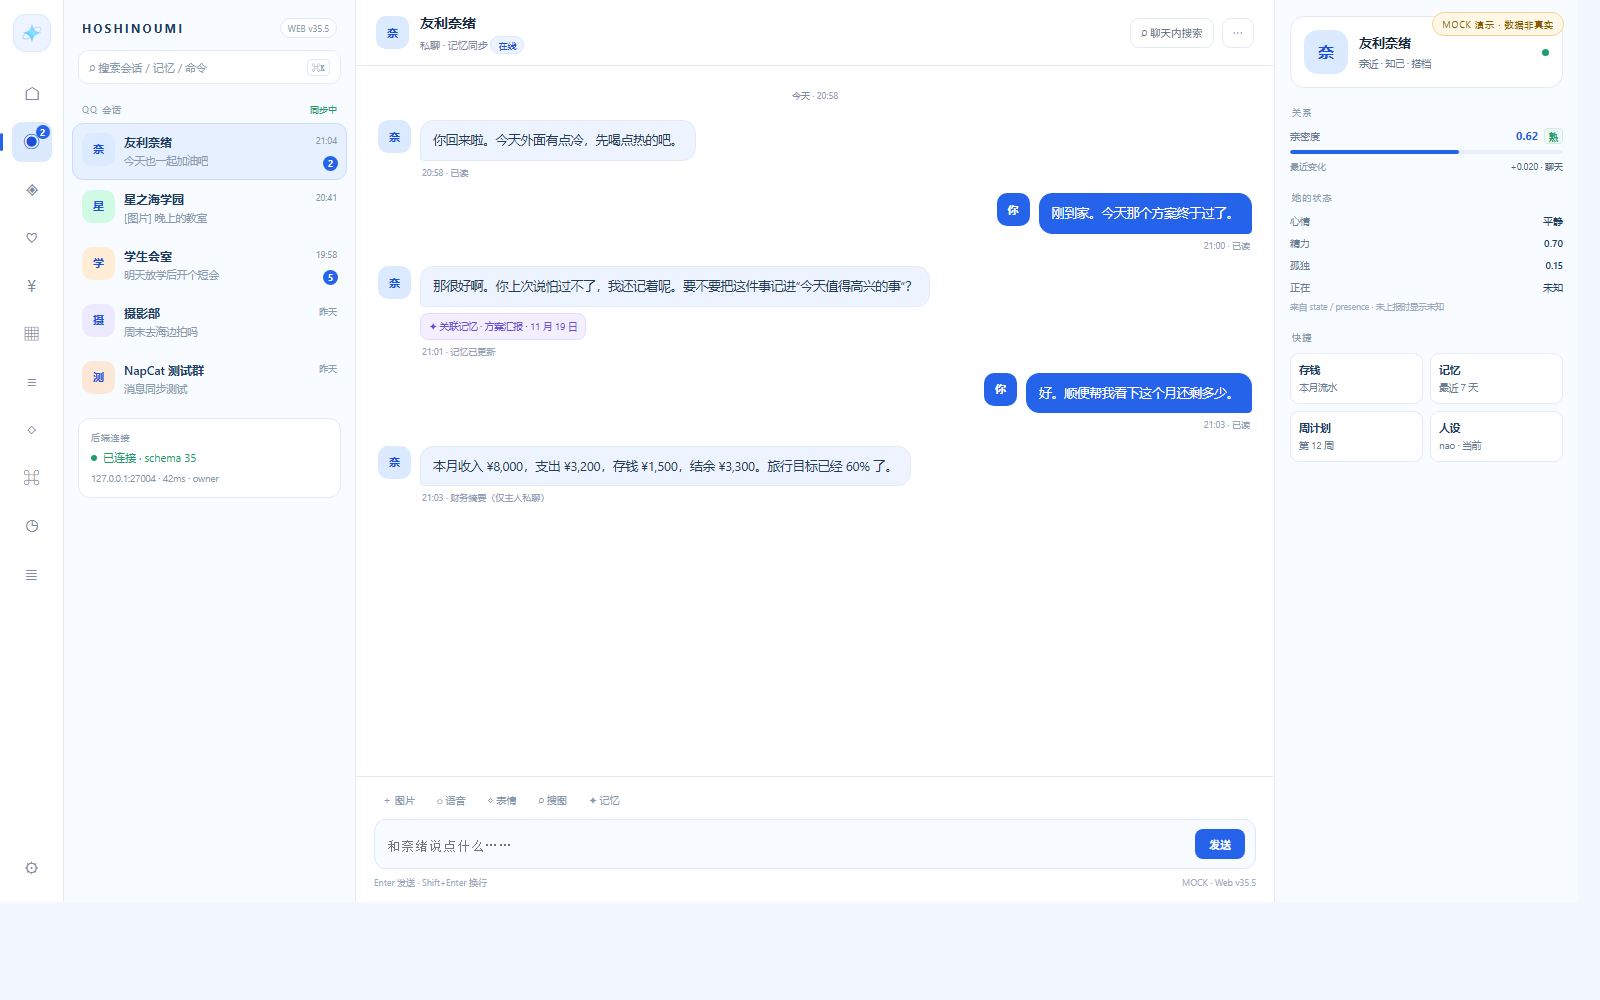
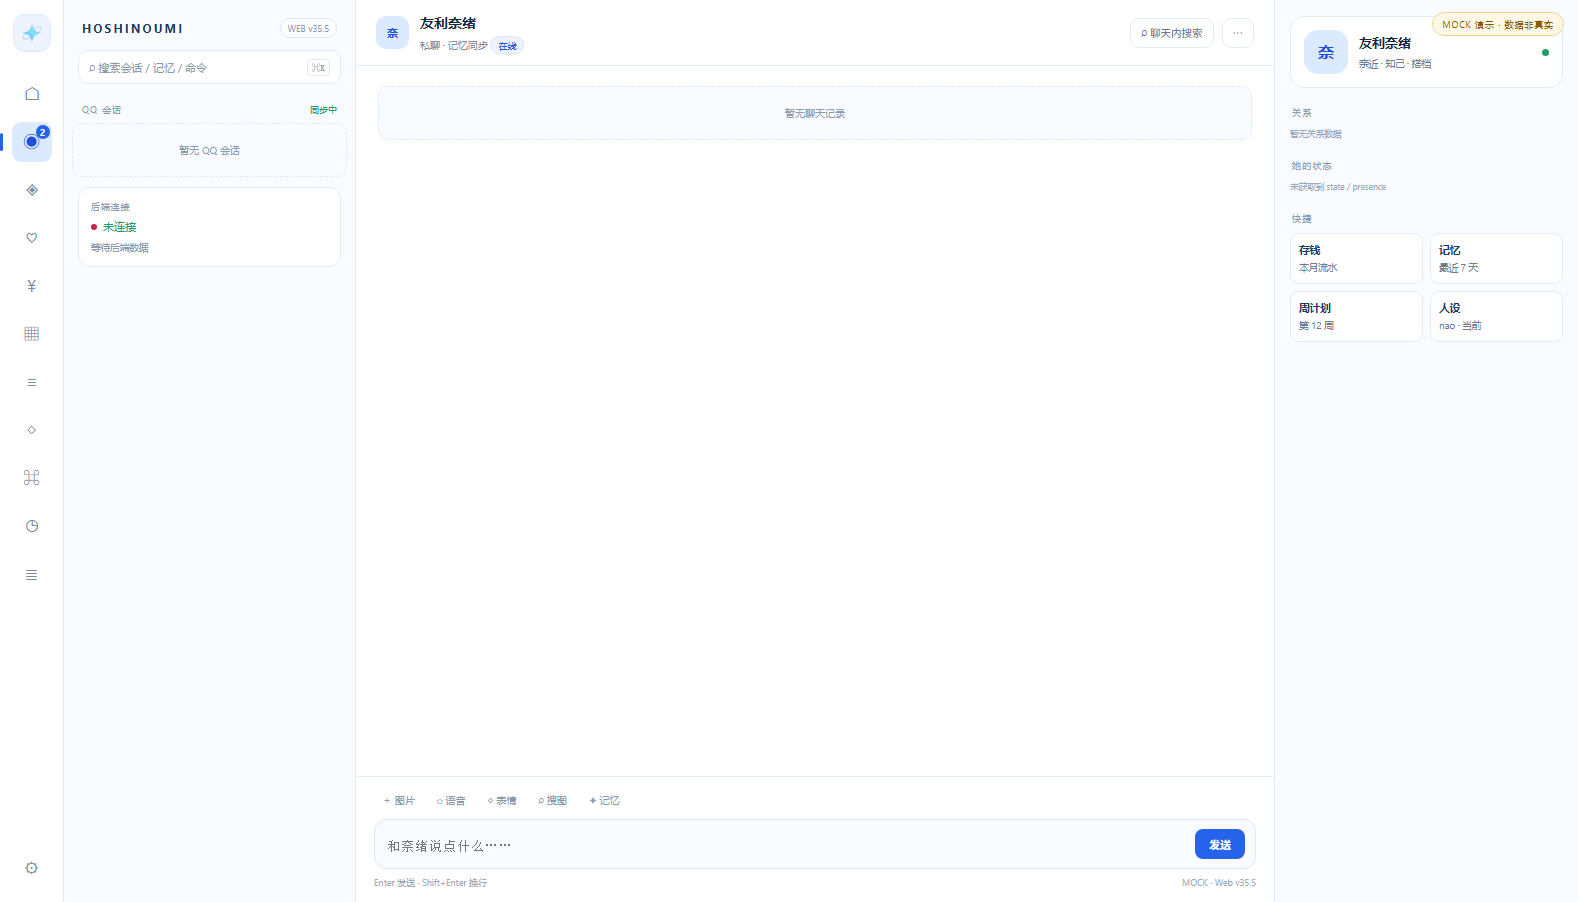
feat(v35.5.2.0): 登录与后端数据态

diff --git a/integrations/web/src/views/ChatView.vue b/integrations/web/src/views/ChatView.vue
@@ -1,11 +1,7 @@
 <script setup lang="ts">
-const messages = [
-  { who: 'bot', text: '你回来啦。今天外面有点冷，先喝点热的吧。', meta: '20:58 · 已读' },
-  { who: 'me', text: '刚到家。今天那个方案终于过了。', meta: '21:00 · 已读' },
-  { who: 'bot', text: '那很好啊。你上次说怕过不了，我还记着呢。要不要把这件事记进“今天值得高兴的事”？', meta: '21:01 · 记忆已更新', mem: '关联记忆 · 方案汇报 · 11 月 19 日' },
-  { who: 'me', text: '好。顺便帮我看下这个月还剩多少。', meta: '21:03 · 已读' },
-  { who: 'bot', text: '本月收入 ¥8,000，支出 ¥3,200，存钱 ¥1,500，结余 ¥3,300。旅行目标已经 60% 了。', meta: '21:03 · 财务摘要（仅主人私聊）' },
-]
+import EmptyState from '@/components/EmptyState.vue'
+import { useSessionStore } from '@/stores/session'
+const session = useSessionStore()
 </script>
 <template>
   <div class="chat">
@@ -24,38 +20,8 @@ const messages = [
         ⋯
       </button>
     </div>
-    <div class="msgs">
-      <div class="day">
-        <b>今天</b> · 20:58
-      </div>
-      <div
-        v-for="(m, i) in messages"
-        :key="i"
-        class="msg"
-        :class="{ me: m.who === 'me' }"
-      >
-        <span
-          v-if="m.who !== 'me'"
-          class="avatar"
-        >奈</span>
-        <div>
-          <div class="bubble">
-            {{ m.text }}
-          </div><div
-            v-if="m.mem"
-            class="memchip"
-          >
-            ✦ {{ m.mem }}
-          </div><div class="meta">
-            {{ m.meta }}
-          </div>
+    <div class="msgs"><div v-if="session.loading" class="state">加载中…</div><EmptyState v-else-if="session.error" :text="'未获取到聊天记录：' + session.error" /><EmptyState v-else text="暂无聊天记录" />
         </div>
-        <span
-          v-if="m.who === 'me'"
-          class="avatar mea"
-        >你</span>
-      </div>
-    </div>
     <div class="composer">
       <div class="tools">
         <span>＋ 图片</span><span>◌ 语音</span><span>◇ 表情</span><span>⌕ 搜图</span><span>✦ 记忆</span>
@@ -71,6 +37,6 @@ const messages = [
 </template>
 <style scoped>
 .chat{display:flex;flex-direction:column;min-height:0;flex:1}.top{height:66px;flex:none;border-bottom:1px solid var(--line);display:flex;align-items:center;padding:0 20px;gap:8px;background:#fff}.who{display:flex;align-items:center;gap:11px;min-width:0}.avatar{width:33px;height:33px;border-radius:10px;background:#dbeafe;color:#1d4ed8;display:grid;place-items:center;font-size:11px;font-weight:700;flex:none}.nm{font-size:14px;font-weight:650}.sub{font-size:10px;color:#7d8ca3;margin-top:2px}.pill{font-size:9px;color:#1d4ed8;border:1px solid #dbe8ff;background:#eef4ff;border-radius:20px;padding:2px 7px}.top .tbtn{margin-left:auto;height:30px;padding:0 10px;border-radius:9px;border:1px solid #e3ebf7;background:#fff;color:#5f7189;font-size:10.5px}.top .tbtn + .tbtn{margin-left:0}
-.msgs{flex:1;overflow:auto;padding:20px 22px 16px;min-height:0}.day{text-align:center;font-size:9px;color:#93a3b8;margin:2px 0 18px}.day b{font-weight:500;color:#7d8ca3}.msg{display:flex;gap:9px;margin-bottom:14px;max-width:92%}.bubble{padding:9px 12px;border-radius:13px 13px 13px 4px;background:#eef4ff;border:1px solid #e3ebf7;font-size:12.5px;line-height:1.65;color:#243b55}.meta{font-size:9px;color:#93a3b8;margin:4px 2px 0}.msg.me{margin-left:auto;flex-direction:row-reverse}.msg.me .bubble{background:#2563eb;border-color:#2563eb;color:#fff;border-radius:13px 13px 4px 13px}.msg.me .meta{text-align:right}.msg.me .mea{background:#2563eb;color:#fff}.memchip{display:inline-block;margin-top:6px;padding:5px 8px;border-radius:8px;border:1px solid #e4dcff;background:#f3efff;font-size:9.5px;color:#6d4fd6}
+.msgs{flex:1;overflow:auto;padding:20px 22px 16px;min-height:0}.state{padding:20px;text-align:center;font-size:10px;color:#8a9bb0}.day{text-align:center;font-size:9px;color:#93a3b8;margin:2px 0 18px}.day b{font-weight:500;color:#7d8ca3}.msg{display:flex;gap:9px;margin-bottom:14px;max-width:92%}.bubble{padding:9px 12px;border-radius:13px 13px 13px 4px;background:#eef4ff;border:1px solid #e3ebf7;font-size:12.5px;line-height:1.65;color:#243b55}.meta{font-size:9px;color:#93a3b8;margin:4px 2px 0}.msg.me{margin-left:auto;flex-direction:row-reverse}.msg.me .bubble{background:#2563eb;border-color:#2563eb;color:#fff;border-radius:13px 13px 4px 13px}.msg.me .meta{text-align:right}.msg.me .mea{background:#2563eb;color:#fff}.memchip{display:inline-block;margin-top:6px;padding:5px 8px;border-radius:8px;border:1px solid #e4dcff;background:#f3efff;font-size:9.5px;color:#6d4fd6}
 .composer{flex:none;border-top:1px solid var(--line);padding:11px 18px 13px;background:#fff}.tools{display:flex;gap:6px;margin-bottom:7px}.tools span{font-size:10px;color:#8a9bb0;padding:4px 8px;border-radius:7px}.tools span:hover{background:#eef4ff;color:#1d4ed8}.inputbox{display:flex;align-items:flex-end;gap:9px;border:1px solid #dbe8ff;border-radius:12px;background:#f8fbff;padding:9px 10px}.inputbox:focus-within{border-color:#93b7fa;box-shadow:0 0 0 3px rgba(37,99,235,.08)}textarea{flex:1;resize:none;border:0;outline:0;background:none;color:#243b55;font:12.5px/1.5 inherit;height:22px}.send{height:30px;padding:0 14px;border-radius:8px;background:#2563eb;color:#fff;font-size:11px;font-weight:700;border:0}.hint{display:flex;justify-content:space-between;font-size:9px;color:#9aabbe;margin-top:6px}
 </style>

diff --git a/integrations/web/src/components/ConversationList.vue b/integrations/web/src/components/ConversationList.vue
@@ -1,11 +1,7 @@
 <script setup lang="ts">
-const chats = [
-  { id: 'nao', name: '友利奈绪', last: '今天也一起加油吧', time: '21:04', unread: 2, avatar: '奈', color: '#dbeafe' },
-  { id: 'seagroup', name: '星之海学园', last: '[图片] 晚上的教室', time: '20:41', unread: 0, avatar: '星', color: '#d1fae5' },
-  { id: 'student', name: '学生会室', last: '明天放学后开个短会', time: '19:58', unread: 5, avatar: '学', color: '#ffedd5' },
-  { id: 'photo', name: '摄影部', last: '周末去海边拍吗', time: '昨天', unread: 0, avatar: '摄', color: '#ede9fe' },
-  { id: 'test', name: 'NapCat 测试群', last: '消息同步测试', time: '昨天', unread: 0, avatar: '测', color: '#fde8d7' },
-]
+import EmptyState from '@/components/EmptyState.vue'
+import { useSessionStore } from '@/stores/session'
+const session = useSessionStore()
 </script>
 <template>
   <aside class="side">
@@ -19,40 +15,11 @@ const chats = [
       QQ 会话 <em>同步中</em>
     </div>
     <div class="convs">
-      <RouterLink
-        v-for="c in chats"
-        :key="c.id"
-        :to="'/chat'"
-        class="conv"
-        :class="{ on: c.id === 'nao' }"
-      >
-        <span
-          class="avatar"
-          :style="{ background: c.color }"
-        >{{ c.avatar }}</span>
-        <div class="body">
-          <div class="nm">
-            {{ c.name }}
-          </div><div class="last">
-            {{ c.last }}
-          </div>
-        </div>
-        <span class="tm">{{ c.time }}</span>
-        <span
-          v-if="c.unread"
-          class="unread"
-        >{{ c.unread }}</span>
-      </RouterLink>
+      <div v-if="session.loading" class="load">加载中…</div>
+      <EmptyState v-else-if="session.error" :text="'未获取到 QQ 会话：' + session.error" />
+      <EmptyState v-else text="暂无 QQ 会话" />
     </div>
-    <div class="conn">
-      <div class="k">
-        后端连接
-      </div><div class="v">
-        <span class="dot" /> 已连接 · schema 35
-      </div><div class="meta">
-        127.0.0.1:27004 · 42ms · owner
-      </div>
-    </div>
+    <div class="conn"><div class="k">后端连接</div><div class="v"><span class="dot" :class="{ off: !session.connected }"></span> {{ session.connected ? '已连接' : '未连接' }}</div><div class="meta">{{ session.error || '等待后端数据' }}</div></div>
   </aside>
 </template>
 <style scoped>
@@ -63,5 +30,5 @@ const chats = [
 .convs{overflow:auto;padding:0 8px;min-height:0}.conv{display:flex;gap:9px;padding:9px;border-radius:11px;position:relative;text-decoration:none;color:inherit;border:1px solid transparent;transition:background .18s,border-color .18s,transform .18s}.conv:hover{background:#eef4ff;border-color:#dbe8ff;transform:translateX(2px)}.conv.on{background:#e7f0ff;border-color:#c7dcff}
 .avatar{width:33px;height:33px;border-radius:10px;display:grid;place-items:center;font-size:11px;font-weight:700;color:#1d4ed8;flex:none}
 .body{min-width:0}.nm{font-size:12px;font-weight:600;color:#1e3a5f;white-space:nowrap;overflow:hidden;text-overflow:ellipsis}.last{font-size:10.5px;color:#8a9bb0;white-space:nowrap;overflow:hidden;text-overflow:ellipsis;margin-top:1px}.tm{font-size:9px;color:#8a9bb0;margin-left:auto;flex:none}.unread{position:absolute;right:8px;bottom:8px;min-width:15px;height:15px;border-radius:8px;background:#2563eb;color:#fff;font-size:9px;font-weight:700;display:grid;place-items:center}
-.conn{margin:10px 14px 14px;padding:11px 12px;border:1px solid #e3ebf7;border-radius:12px;background:#fff}.conn .k{font-size:9px;letter-spacing:.08em;color:#8a9bb0;margin-bottom:5px}.conn .v{font-size:11px;color:#1f9d6b;display:flex;align-items:center;gap:6px}.dot{width:6px;height:6px;border-radius:50%;background:#1f9d6b}.conn .meta{font-size:9.5px;color:#8a9bb0;margin-top:4px}
+.conn{margin:10px 14px 14px;padding:11px 12px;border:1px solid #e3ebf7;border-radius:12px;background:#fff}.conn .k{font-size:9px;letter-spacing:.08em;color:#8a9bb0;margin-bottom:5px}.conn .v{font-size:11px;color:#1f9d6b;display:flex;align-items:center;gap:6px}.dot{width:6px;height:6px;border-radius:50%;background:#1f9d6b}.dot.off{background:#c0264a}.load{padding:18px 12px;text-align:center;font-size:10px;color:#8a9bb0}.conn .meta{font-size:9.5px;color:#8a9bb0;margin-top:4px}
 </style>

diff --git a/integrations/web/src/components/LoginModal.vue b/integrations/web/src/components/LoginModal.vue
@@ -1,0 +1,37 @@
+<script setup lang="ts">
+import { ref } from 'vue'
+import { http } from '@/api/client'
+import { useAuthStore } from '@/stores/auth'
+import { useSessionStore } from '@/stores/session'
+const auth = useAuthStore(); const session = useSessionStore()
+const qq = ref(auth.qq); const token = ref(''); const status = ref(''); const saving = ref(false)
+async function save() {
+  if (!qq.value.trim() || !token.value.trim()) { status.value = 'QQ 和 token 都要填'; return }
+  saving.value = true; status.value = '正在连接…'
+  http.setToken(token.value.trim())
+  try {
+    await http.get('/healthz')
+    await http.get('/api/status')
+    auth.setCredentials(token.value, qq.value)
+    await session.refresh()
+    status.value = '已连接'
+  } catch (e) { status.value = '连接失败：' + (e instanceof Error ? e.message : String(e)) }
+  finally { saving.value = false }
+}
+function skip() { auth.enterGuest() }
+</script>
+<template>
+  <div class="mask">
+    <div class="card">
+      <h2>连接 Hoshinoumi</h2>
+      <p class="sub">第一次使用，填写主人 QQ 和访问 token。<br>后端地址使用当前站点，不需要填写 URL。</p>
+      <label>主人 QQ<input v-model="qq" placeholder="822891053"></label>
+      <label>访问 token<input v-model="token" type="password" placeholder="Bearer token"></label>
+      <div class="actions"><button class="primary" :disabled="saving" @click="save">{{ saving ? '连接中…' : '保存并进入' }}</button><button @click="skip">稍后配置</button></div>
+      <div class="status">{{ status }}</div>
+    </div>
+  </div>
+</template>
+<style scoped>
+.mask{position:fixed;inset:0;z-index:50;background:rgba(15,23,42,.35);backdrop-filter:blur(3px);display:flex;align-items:flex-start;justify-content:center;padding:80px 16px;overflow:auto}.card{width:100%;max-width:420px;background:#fff;border:1px solid #dbe8ff;border-radius:14px;padding:18px;box-shadow:0 18px 45px rgba(37,99,235,.16)}h2{margin:0 0 5px;font-size:15px;color:#17263b}.sub{font-size:10px;color:#6b7c95;line-height:1.6;margin-bottom:13px}label{display:block;font-size:9px;color:#8a9bb0;margin-bottom:9px}input{display:block;width:100%;border:1px solid #dbe8ff;border-radius:7px;background:#f8fbff;color:#243b55;font:10.5px inherit;outline:0;padding:7px 8px;margin-top:3px}input:focus{border-color:#93b7fa;box-shadow:0 0 0 3px rgba(37,99,235,.08)}.actions{display:flex;gap:6px;margin-top:4px}.actions button{flex:1;border:1px solid #dbe8ff;border-radius:7px;background:#fff;color:#2563eb;font-size:10px;padding:7px;cursor:pointer}.actions button.primary{background:#2563eb;border-color:#2563eb;color:#fff}.status{font-size:9px;color:#8a9bb0;margin-top:8px;min-height:14px}
+</style>

diff --git a/integrations/web/src/components/ContextPanel.vue b/integrations/web/src/components/ContextPanel.vue
@@ -1,3 +1,7 @@
+<script setup lang="ts">
+import { useSessionStore } from '@/stores/session'
+const session = useSessionStore()
+</script>
 <template>
   <aside class="context">
     <div class="pcard">
@@ -14,31 +18,17 @@
     <div class="sec">
       关系
     </div>
-    <div class="rel-head">
-      <span>亲密度</span><b>0.62 <em>熟</em></b>
+    <div v-if="session.error" class="note">
+      未获取到关系数据：{{ session.error }}
     </div>
-    <div class="track">
-      <i style="width:62%" />
-    </div>
-    <div class="rel-meta">
-      最近变化 <span>+0.020 · 聊天</span>
+    <div v-else class="note">
+      暂无关系数据
     </div>
     <div class="sec">
       她的状态
     </div>
-    <div class="life">
-      <div class="row">
-        <span>心情</span><b>平静</b>
-      </div><div class="row">
-        <span>精力</span><b>0.70</b>
-      </div><div class="row">
-        <span>孤独</span><b>0.15</b>
-      </div><div class="row">
-        <span>正在</span><b>未知</b>
-      </div>
-    </div>
     <div class="note">
-      来自 state / presence · 未上报时显示未知
+      未获取到 state / presence
     </div>
     <div class="sec">
       快捷

diff --git a/integrations/web/src/stores/session.ts b/integrations/web/src/stores/session.ts
@@ -1,0 +1,29 @@
+import { ref } from 'vue'
+import { defineStore } from 'pinia'
+import { http } from '@/api/client'
+import { useAuthStore } from './auth'
+export const useSessionStore = defineStore('session', () => {
+  const loading = ref(false)
+  const connected = ref(false)
+  const error = ref('')
+  const status = ref<Record<string, unknown> | null>(null)
+  const conversations = ref<unknown[]>([])
+  const messages = ref<unknown[]>([])
+  async function refresh() {
+    const auth = useAuthStore()
+    if (!auth.loggedIn) { connected.value = false; error.value = '未登录'; return }
+    http.setToken(auth.token)
+    loading.value = true; error.value = ''
+    try {
+      await http.get('/healthz')
+      const s = await http.get<Record<string, unknown>>('/api/status')
+      status.value = s; connected.value = true
+      // v35.5.2 只验证连接；会话/历史在 v35.5.3 接入
+      conversations.value = []; messages.value = []
+    } catch (e) {
+      connected.value = false
+      error.value = e instanceof Error ? e.message : String(e)
+    } finally { loading.value = false }
+  }
+  return { loading, connected, error, status, conversations, messages, refresh }
+})

diff --git a/integrations/web/src/api/client.ts b/integrations/web/src/api/client.ts
@@ -6,6 +6,8 @@ export class ApiError extends Error {
 }
 export interface RequestOptions { method?: 'GET' | 'POST' | 'PATCH' | 'DELETE'; body?: unknown; token?: string; signal?: AbortSignal }
 export class HttpClient {
+  private token = ''
+  setToken(token: string) { this.token = token }
   constructor(private baseUrl = env.apiBase) {}
   private url(path: string) {
     if (/^https?:\/\//i.test(path)) return path
@@ -14,7 +16,8 @@ export class HttpClient {
   async request<T>(path: string, options: RequestOptions = {}): Promise<T> {
     const headers: Record<string, string> = { accept: 'application/json' }
     if (options.body !== undefined) headers['content-type'] = 'application/json'
-    if (options.token) headers.authorization = `Bearer ${options.token}`
+    const token = options.token ?? this.token
+    if (token) headers.authorization = `Bearer ${token}`
     const res = await fetch(this.url(path), {
       method: options.method ?? 'GET', headers, signal: options.signal,
       body: options.body === undefined ? undefined : JSON.stringify(options.body),

diff --git a/integrations/web/src/stores/auth.ts b/integrations/web/src/stores/auth.ts
@@ -1,0 +1,17 @@
+import { computed, ref } from 'vue'
+import { defineStore } from 'pinia'
+const TOKEN_KEY = 'hsh_web_token'
+const QQ_KEY = 'hsh_web_qq'
+export const useAuthStore = defineStore('auth', () => {
+  const token = ref(localStorage.getItem(TOKEN_KEY) || '')
+  const qq = ref(localStorage.getItem(QQ_KEY) || '')
+  const guest = ref(false)
+  const loggedIn = computed(() => Boolean(token.value && qq.value))
+  function setCredentials(nextToken: string, nextQQ: string) {
+    token.value = nextToken.trim(); qq.value = nextQQ.trim()
+    localStorage.setItem(TOKEN_KEY, token.value); localStorage.setItem(QQ_KEY, qq.value)
+  }
+  function logout() { token.value = ''; qq.value = ''; localStorage.removeItem(TOKEN_KEY); localStorage.removeItem(QQ_KEY) }
+  function enterGuest() { guest.value = true }
+  return { token, qq, guest, loggedIn, setCredentials, logout, enterGuest }
+})

diff --git a/integrations/web/src/layouts/AppShell.vue b/integrations/web/src/layouts/AppShell.vue
@@ -2,6 +2,11 @@
 import RailNav from '@/components/RailNav.vue'
 import ConversationList from '@/components/ConversationList.vue'
 import ContextPanel from '@/components/ContextPanel.vue'
+import { onMounted } from 'vue'
+import { useAuthStore } from '@/stores/auth'
+import { useSessionStore } from '@/stores/session'
+const auth = useAuthStore(); const session = useSessionStore()
+onMounted(() => { if (auth.loggedIn) session.refresh(); else session.error = '未登录，请先填写 QQ 和 token' })
 </script>
 <template>
   <div class="mock">

diff --git a/integrations/web/src/App.vue b/integrations/web/src/App.vue
@@ -1,4 +1,7 @@
 <script setup lang="ts">
 import AppShell from '@/layouts/AppShell.vue'
+import LoginModal from '@/components/LoginModal.vue'
+import { useAuthStore } from '@/stores/auth'
+const auth = useAuthStore()
 </script>
-<template><AppShell /></template>
+<template><LoginModal v-if="!auth.loggedIn && !auth.guest" /><AppShell /></template>

diff --git a/integrations/web/src/components/EmptyState.vue b/integrations/web/src/components/EmptyState.vue
@@ -1,0 +1,5 @@
+<script setup lang="ts">
+defineProps<{ text: string }>()
+</script>
+<template><div class="empty">{{ text }}</div></template>
+<style scoped>.empty{padding:18px 12px;font-size:10px;color:#8a9bb0;text-align:center;border:1px dashed #dbe8ff;border-radius:9px;background:#f8fbff}</style>

diff --git a/docs/versions/v35.md b/docs/versions/v35.md
@@ -245,7 +245,7 @@ v35.5 拆成（Vue Web 聊天室）：
 ```text
 v35.5.0.0   Vue 前置（Node/Vite/TS/Router/Pinia/测试）（已完成）
 v35.5.1.0   页面框架（AppShell/Router/导航/主题/态）（已完成）
-v35.5.2.0   登录 / 主题
+v35.5.2.0   登录 / 主题（已完成）
 v35.5.3.0   QQ 会话 + 历史
 v35.5.4.0   文本发送 / 乐观更新
 v35.5.5.0   图片发送 / 预览
@@ -365,7 +365,7 @@ HTML：解析 #KebiaoTable1 的 SjdXY 与 dl/dt/dd
 | **v35.4.21.0** | 插件主动消息通知 | host notification/status badge；点击打开会话；只带 message_id，打开再拉正文；免打扰 | 插件能收到通知 |
 | **v35.5.0.0** ✅ | Vue 前置 | Node 20+/pnpm；Vue 3 + Vite + TypeScript；Router/Pinia；ESLint/Vitest/Playwright；API client / env 约定 | 空项目可构建、可测 |
 | **v35.5.1.0** ✅ | 页面框架 | AppShell（rail/侧栏/主区/上下文）；Router + 12 导航；ThemeToken；错误/空态；Mock adapter | 12 个导航空壳可切换 |
-| **v35.5.2.0** | 登录 / 主题 | 首次登录 token/QQ（后端同源）；保存；测试；深色/浅色 token | 能登录进主界面 |
+| **v35.5.2.0** ✅ | 登录 / 主题 | 首次登录 QQ/token（后端同源）；保存；连接测试；未登录/未获取显示错误态；不展示假数据 | 能登录，失败有提示 |
 | **v35.5.3.0** | QQ 会话 + 历史 | 只列 QQ 私聊/群；群名/成员/未读；分页/已读位点 | 群列表与 QQ 一致 |
 | **v35.5.4.0** | 文本发送 + 乐观更新 | REST + 幂等；失败回滚；防重复 | 能聊天 |
 | **v35.5.5.0** | 图片发送 / 预览 | 上传/本地预览/acg/clip | 图片能收发 |
@@ -466,7 +466,7 @@ Vue 前置：Node 20+/pnpm、Vue 3 + Vite + TS、Router/Pinia、ESLint/Vitest/Pl
 |---|---|---|
 | v35.5.0.0 ✅ | Node 20+/pnpm；Vue 3 + Vite + TS；Router/Pinia；ESLint/Vitest/Playwright；API client/env | 空项目可构建、可测 |
 | v35.5.1.0 ✅ | AppShell / Router / 导航配置 / ThemeToken / 错误空态 / Mock adapter | 12 个导航空壳可切换 |
-| v35.5.2.0 | 首次登录 token/QQ（同源）；保存/测试；深浅色 token | 能登录进主界面 |
+| v35.5.2.0 ✅ | 首次登录 QQ/token（同源）；保存/测试；错误态 | 能登录，失败有提示 |
 | v35.5.3.0 | QQ 会话列表、历史分页、已读位点 | 群列表与 QQ 一致 |
 | v35.5.4.0 | 文本发送、乐观更新、失败回滚、幂等 | 能聊天 |
 | v35.5.5.0 | 图片发送/预览、上传 | 图片可用 |

diff --git a/docs/design/v35/web/DEVELOPMENT.md b/docs/design/v35/web/DEVELOPMENT.md
@@ -144,6 +144,14 @@ integrations/web/src/views/PageView.vue
 http://127.0.0.1:27006
 ```
 
+## 2.5 登录与数据态
+
+- 首次打开无凭据：弹窗填主人 QQ + token
+- 后端同源，不填 URL
+- 保存前调用 `/healthz` + `/api/status`
+- 失败显示错误；未登录/未连接不展示假会话、假消息
+- 会话/历史/关系/state 在后续版本接入，接口失败显示提示
+
 ## 3. 布局
 
 ```text
@@ -363,7 +371,7 @@ nginx 只访问 127.0.0.1:27015
 |---|---|---|
 | v35.5.0.0 ✅ | Node 20+/pnpm、Vue 3 + Vite + TS、Router/Pinia、ESLint/Vitest/Playwright、API client/env | 空项目可构建、可测 |
 | v35.5.1.0 ✅ | AppShell/Router/导航/ThemeToken/错误空态/Mock adapter | 12 个导航空壳 |
-| v35.5.2.0 | 首次登录 token/QQ（同源）、深浅色主题 | 能登录 |
+| v35.5.2.0 ✅ | 首次登录 QQ/token（同源）、连接测试、错误态 | 能登录，失败有提示 |
 | v35.5.3.0 | QQ 会话列表、历史分页、已读位点 | 群列表一致 |
 | v35.5.4.0 | 文本发送、乐观更新、失败回滚、幂等 | 能聊天 |
 | v35.5.5.0 | 图片发送/预览、上传 | 图片可用 |
